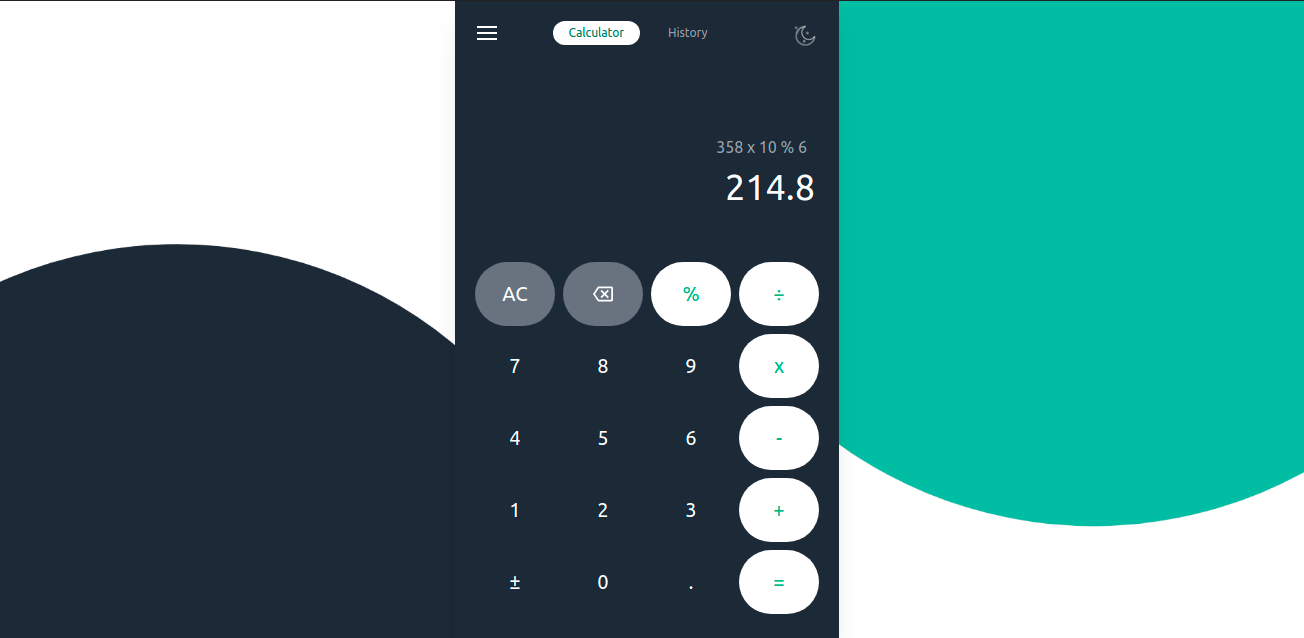
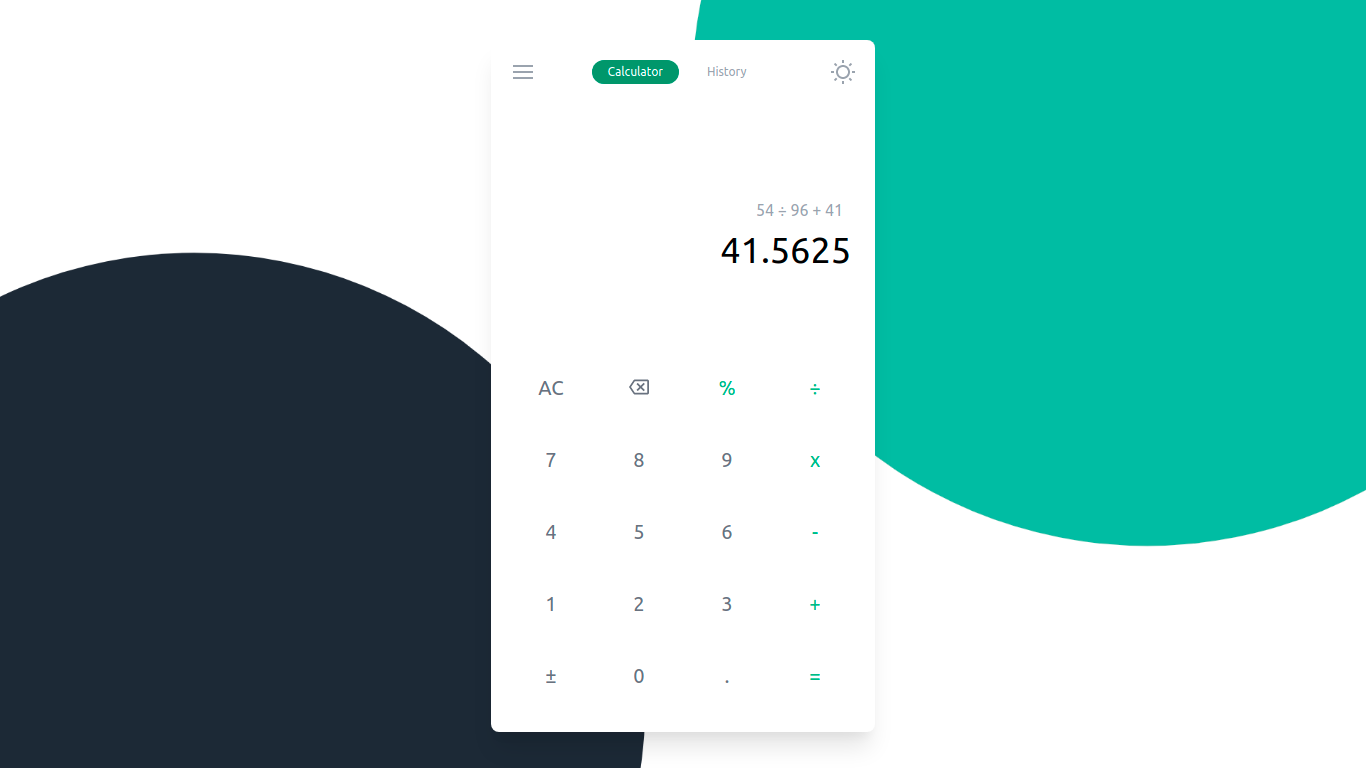
change preview images

diff --git a/pages/index.js b/pages/index.js
@@ -8,8 +8,8 @@ export default function Index(props) {
   const darkMode = useSelector(selectDarkMode);
 
   return (
-    <div className={darkMode ? "dark" : ""}>
-      <div className={"flex flex-col justify-between h-screen pb-5 shadow-xl bg-white dark:bg-gray-800"}>
+    <div className={`h-screen pt-10 ${darkMode ? "dark" : ""}`}>
+      <div className={"flex flex-col justify-between pb-5 shadow-xl rounded-lg bg-white dark:bg-gray-800"} style={{height: "95%"}}>
         <Nav />
         <CalculateMonitor />
         <Keyboards />
